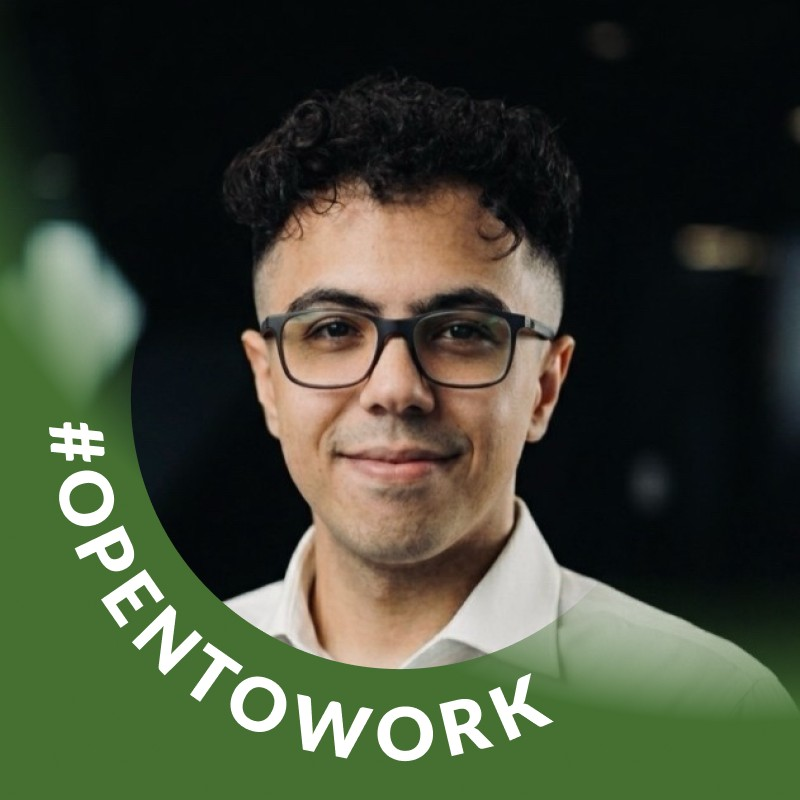
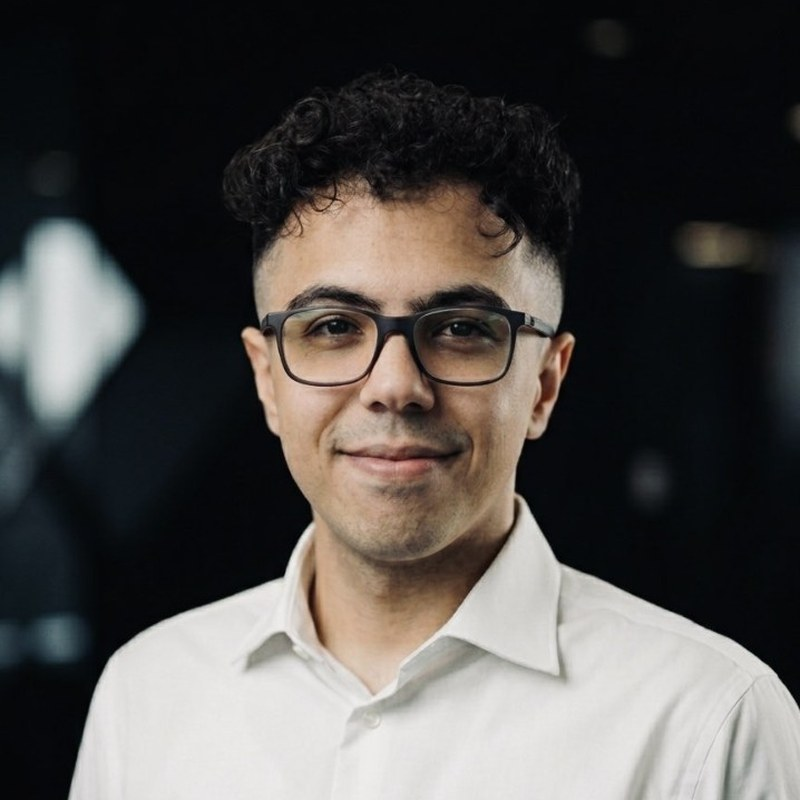
fixed spacing issues and updated sepehr photo

diff --git a/src/styles/global.css b/src/styles/global.css
@@ -304,6 +304,10 @@ html.light {
 		@apply flex-1 pt-28 pb-14 md:pt-32 md:pb-16;
 	}
 
+	.page-main--tight-footer {
+		@apply pb-6 md:pb-8;
+	}
+
 	.mask-fade-edges {
 		mask-image: linear-gradient(to right, transparent, #000 10%, #000 90%, transparent);
 		-webkit-mask-image: linear-gradient(
